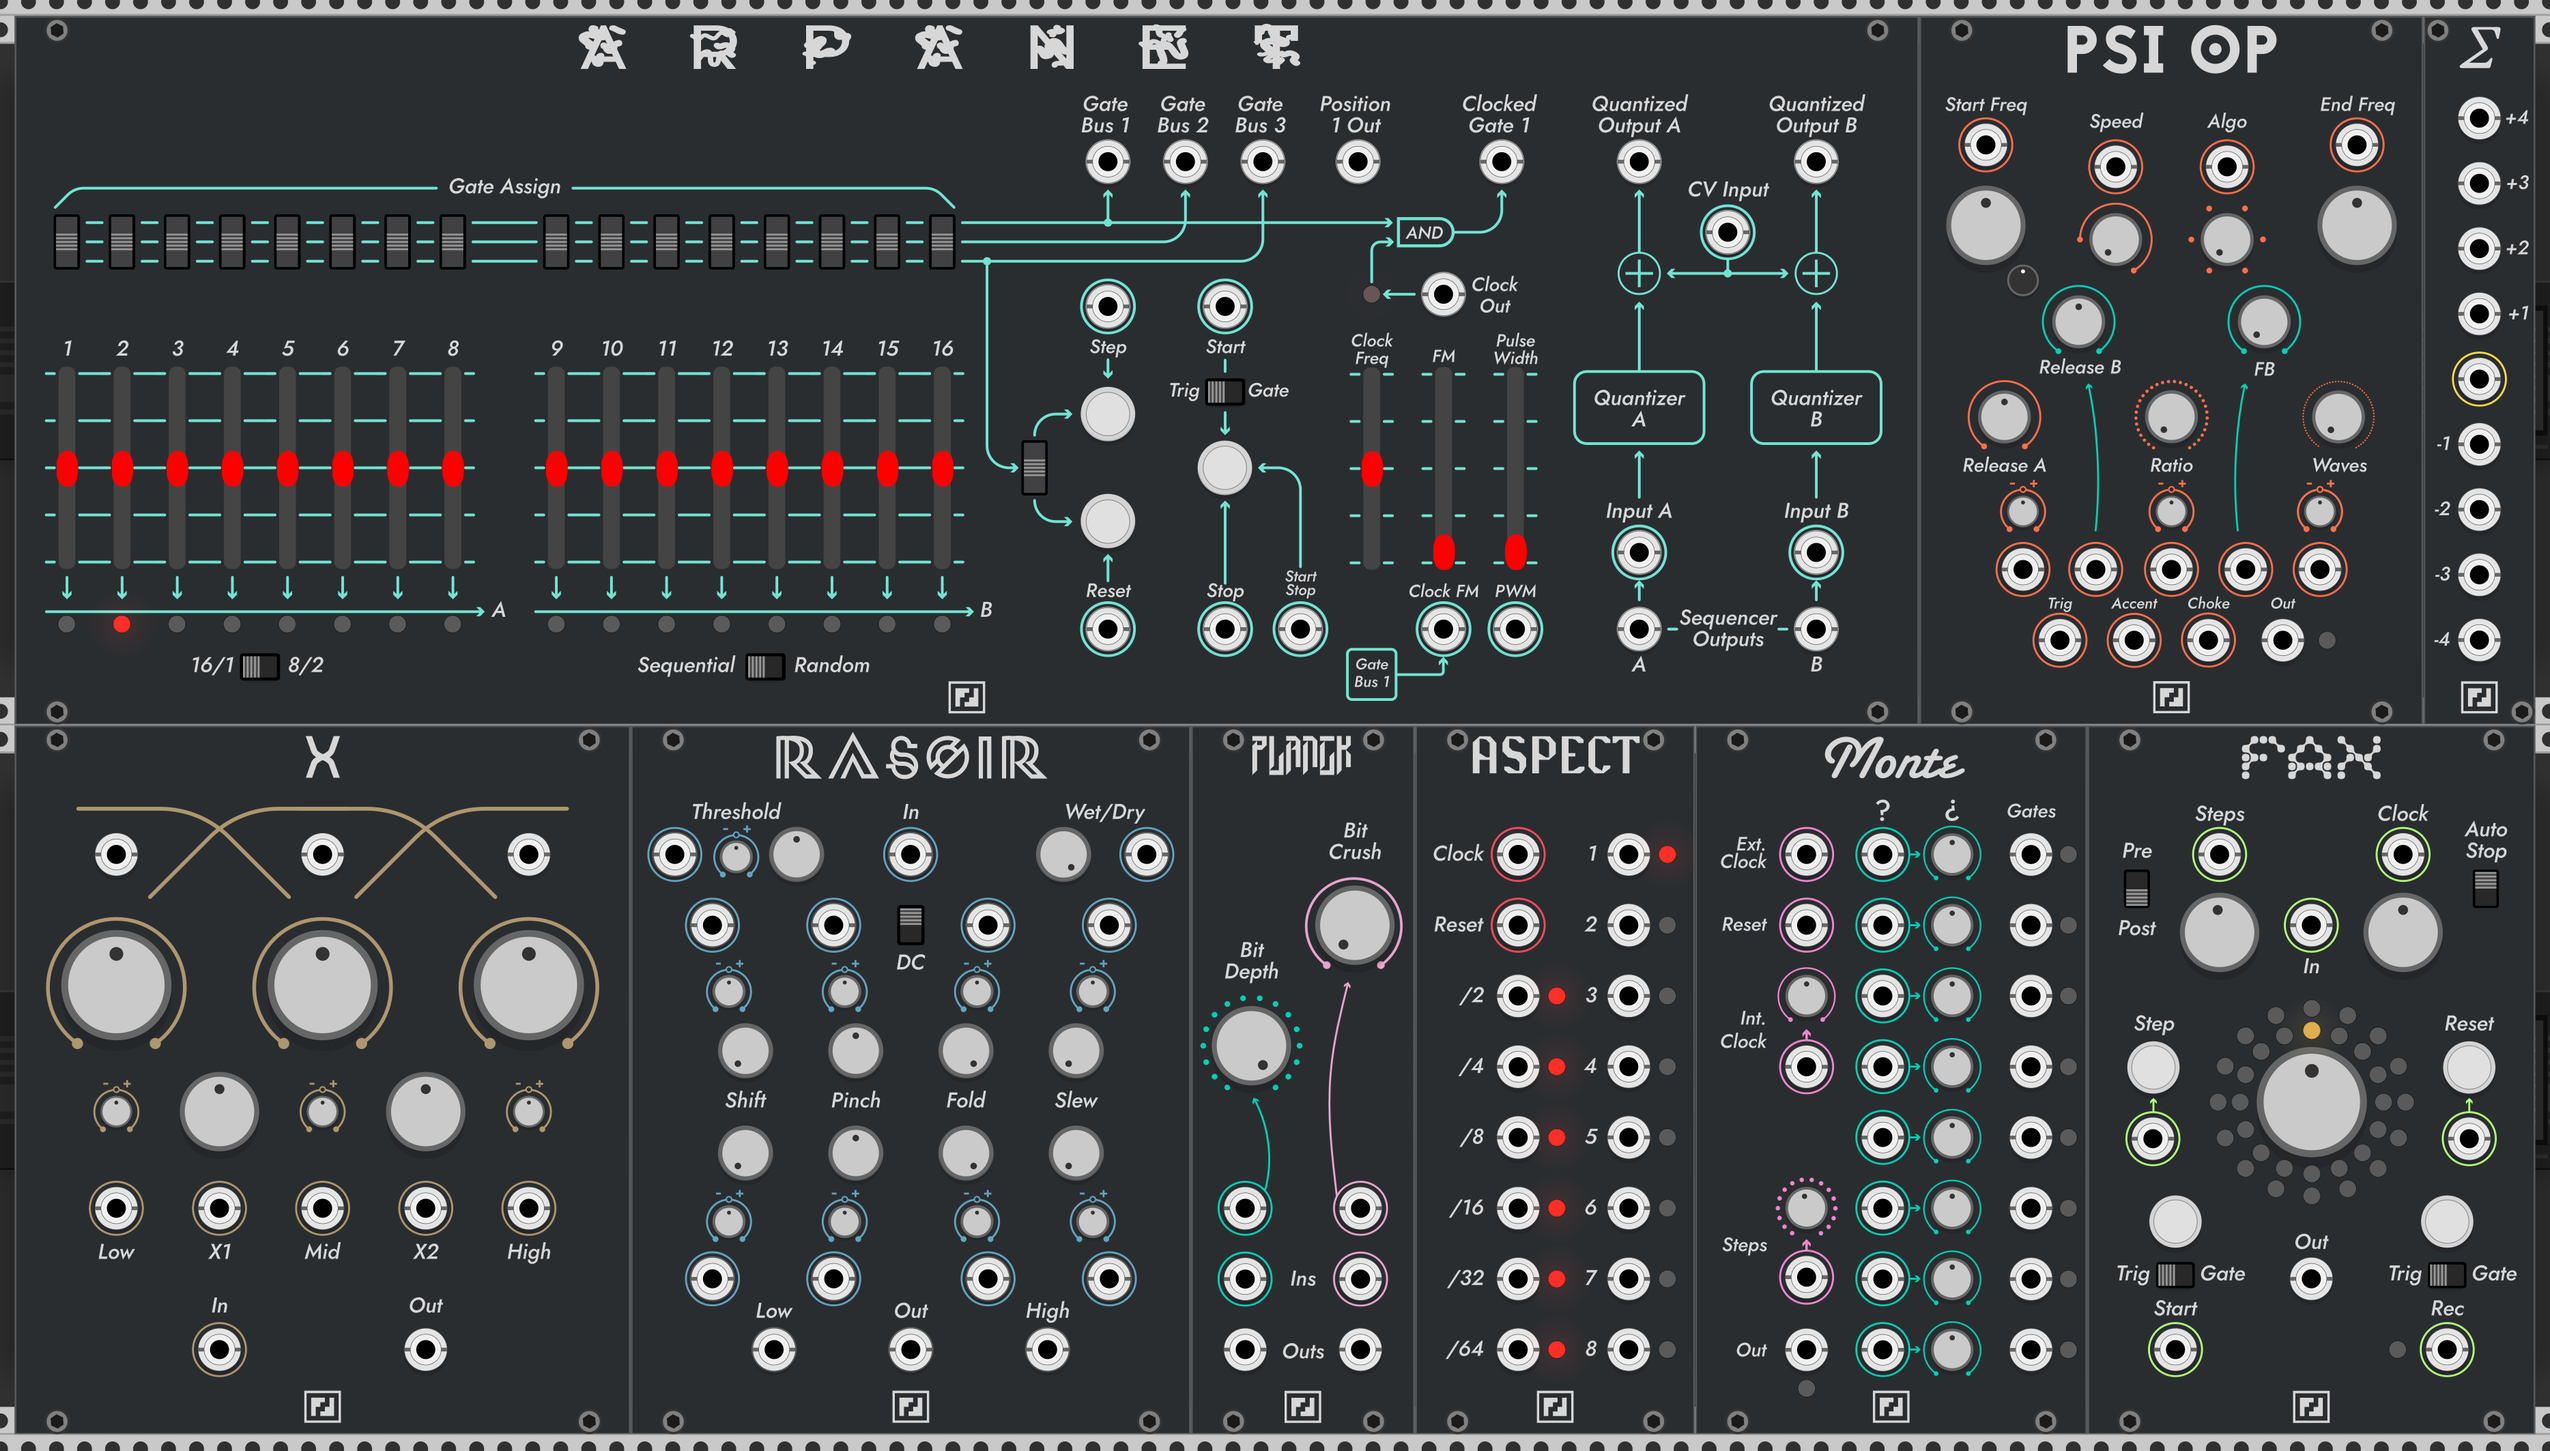
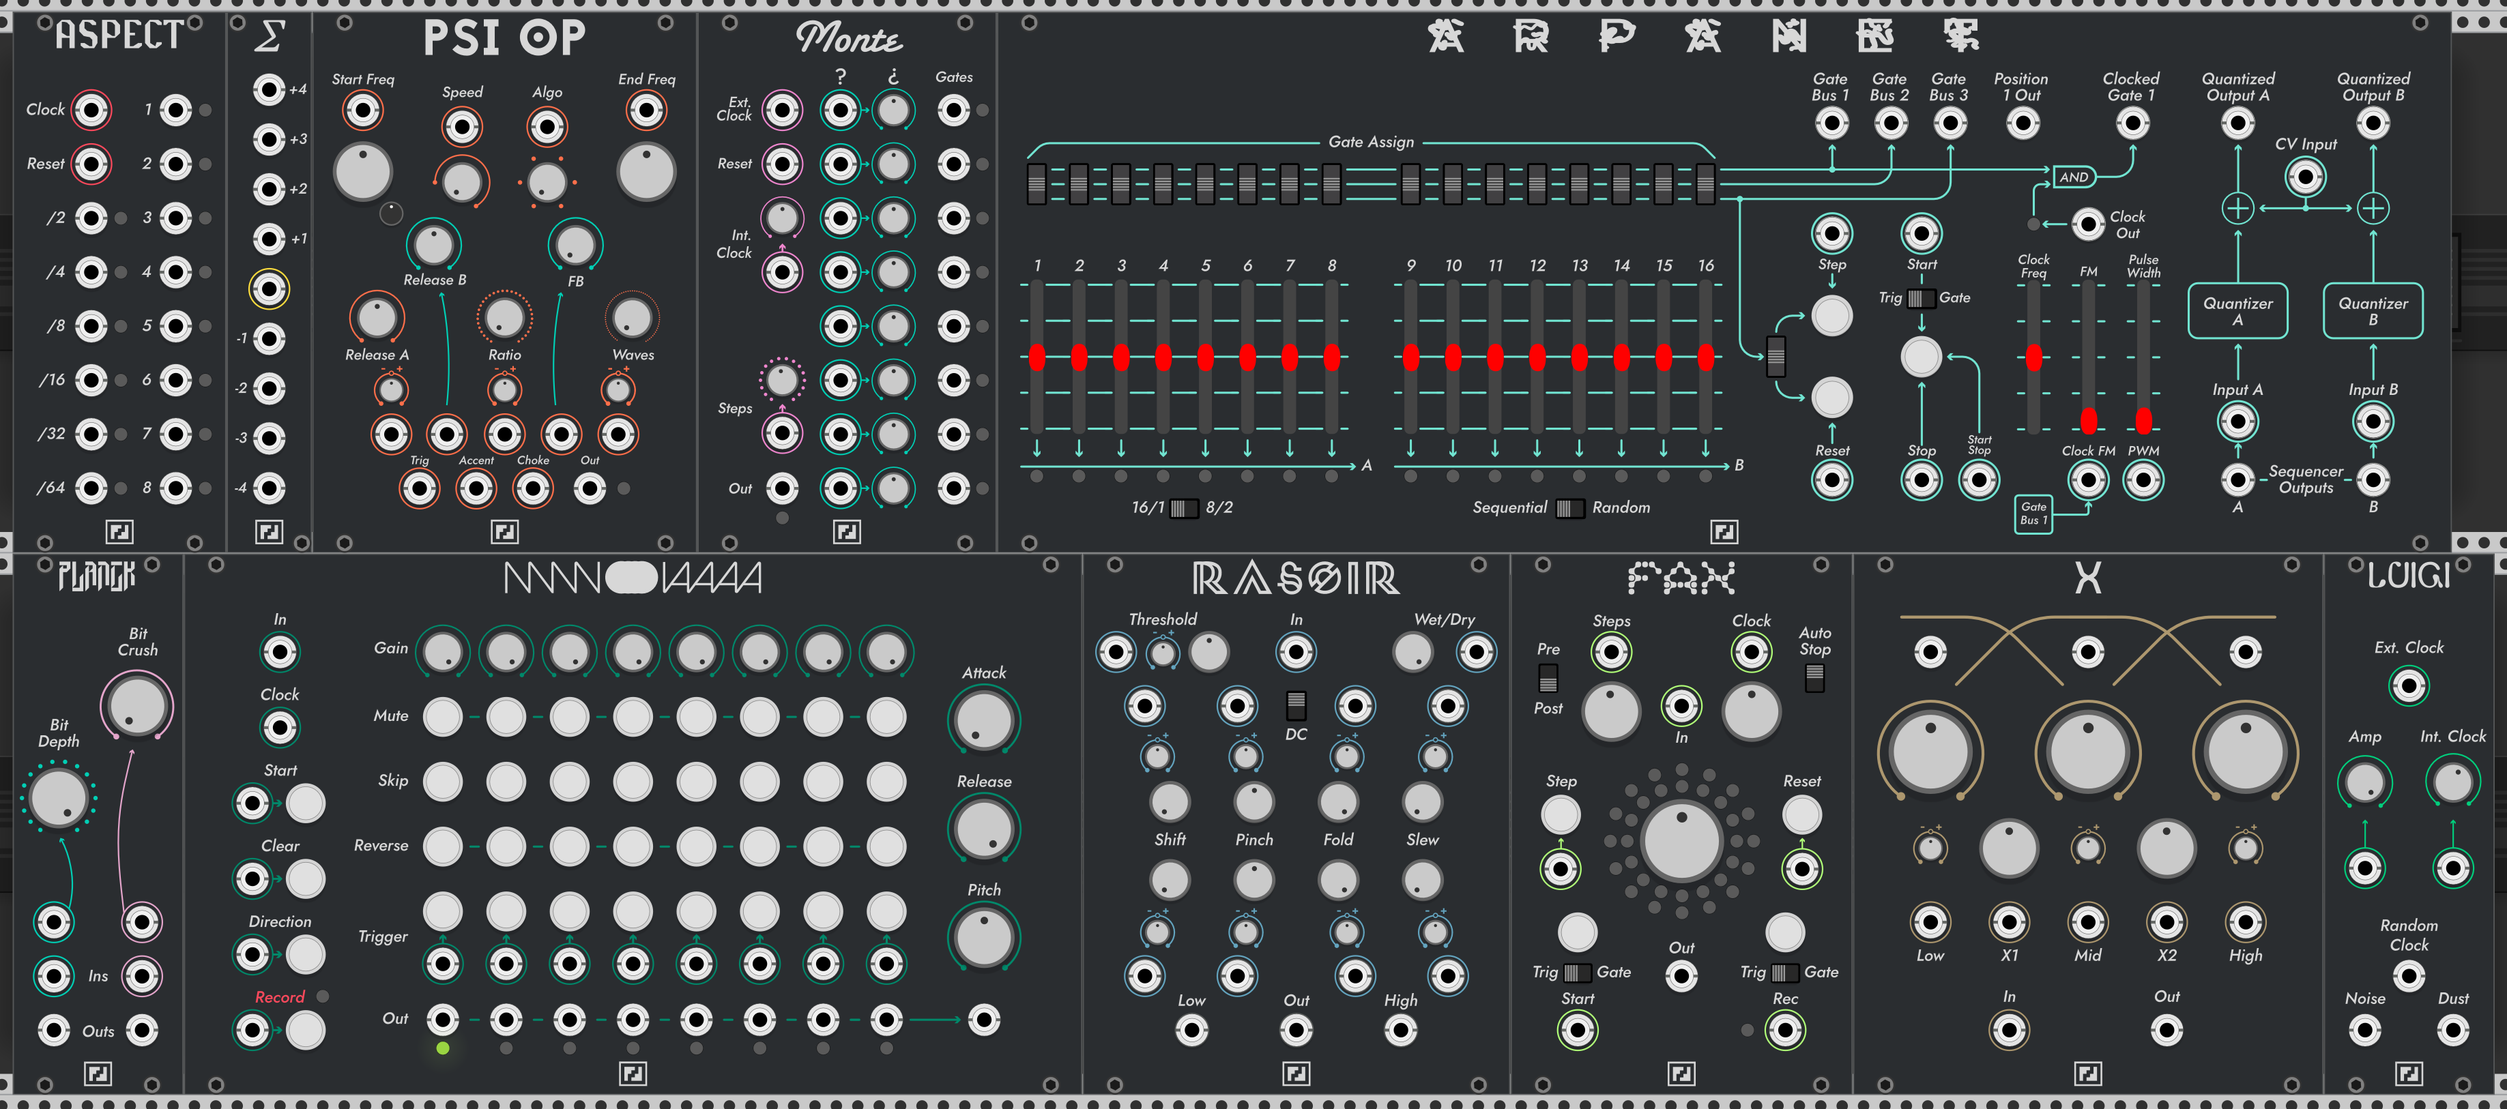
updated README

diff --git a/README.md b/README.md
@@ -48,6 +48,12 @@ Luigi is a random digital clock and noise generator. It can use either an extern
 
 Monte is a probabilistic trigger sequencer. It can use either an external or internal clock. For each step of the sequence, the probability of a trigger being generated is determined by a CV/knob combo. When CV is present the knobs act as an offset. All of the gates are OR'd to the main output as well as having their own output. Using CV on the Steps input allows for sequences of up to 32 steps.
 
+## Nova
+
+![Image of Nova](https://github.com/RCameron93/FehlerFabrik/blob/master/docs/images/FFNova.png)
+
+Nova is a sequenced sampler that can be used to cut up loops and play back slices. Audio (or CV) is recorded at the In jack when the sequencer is active and Record mode is on. After Record has been turned off, the sample is played back cut into 8 slices, with each slice having it's own controls and output. Pitch and amplitude envelope are controlled globally.
+
 ## Planck
 
 ![Image of Planck](https://github.com/RCameron93/FehlerFabrik/blob/master/docs/images/FFPlanck.png)
